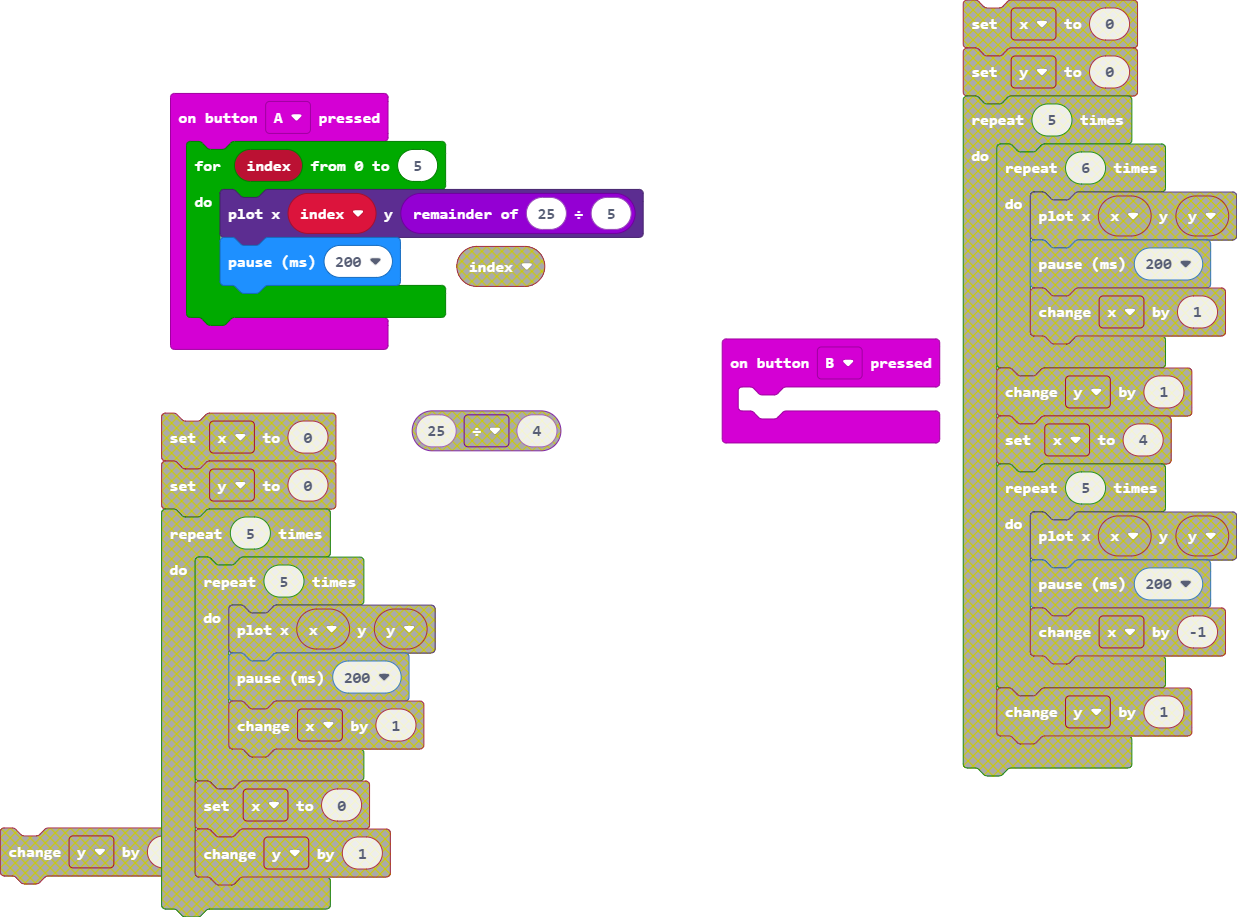
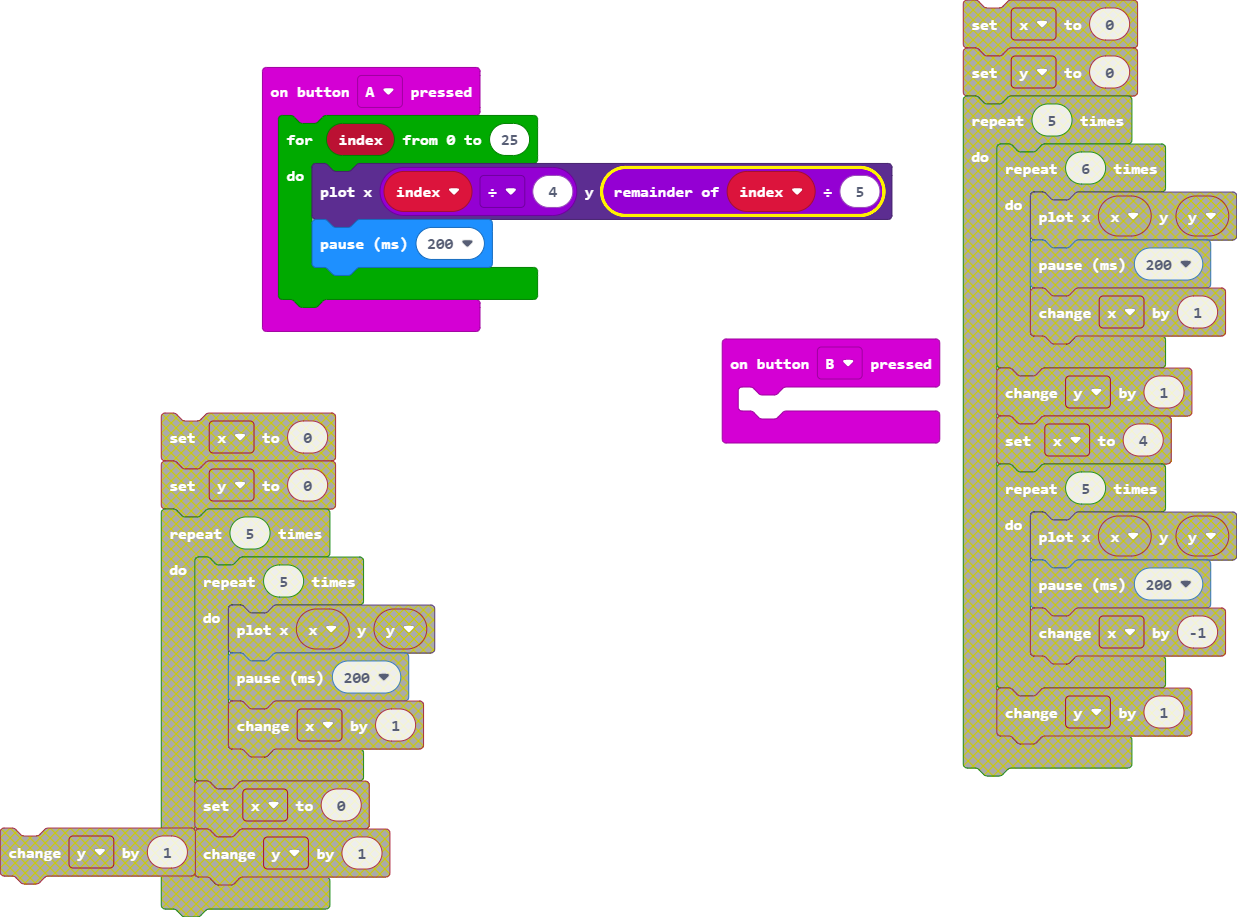
Update main.blocks, main.ts

diff --git a/main.ts b/main.ts
@@ -1,6 +1,6 @@
 input.onButtonPressed(Button.A, function () {
-    for (let index = 0; index <= 5; index++) {
-        led.plot(index, 25 % 5)
+    for (let index = 0; index <= 25; index++) {
+        led.plot(index / 4, index % 5)
         basic.pause(200)
     }
 })
